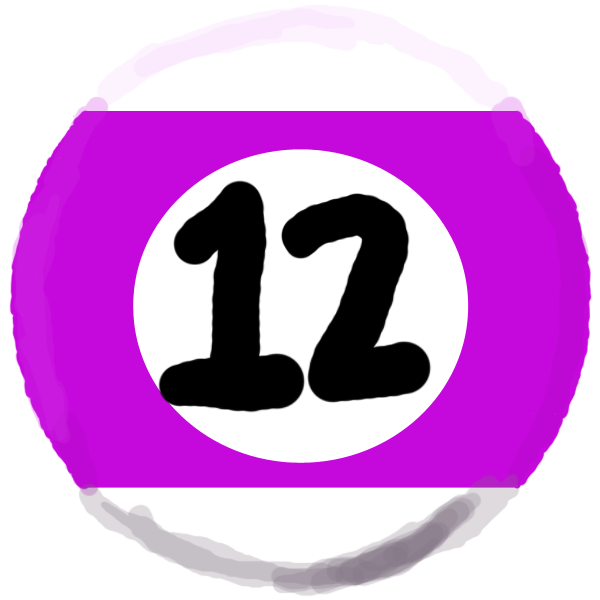
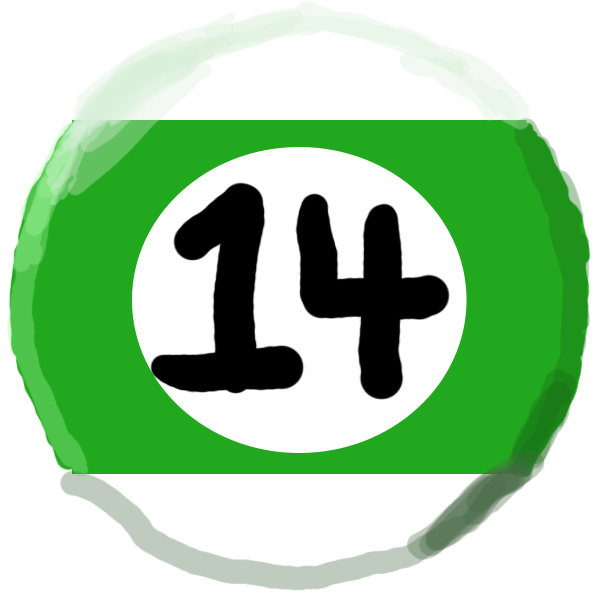
Fixed the 14 and 12 Ball textures, added an outline on hover, and added a waiting message.

diff --git a/src/CarpetBallComponent.java b/src/CarpetBallComponent.java
@@ -6,6 +6,7 @@ import java.awt.image.BufferedImage;
 import java.io.File;
 import java.io.IOException;
 import java.nio.Buffer;
+import java.util.Random;
 
 public class CarpetBallComponent extends JComponent implements BallListener {
 	private GameState state;
@@ -52,16 +53,23 @@ public class CarpetBallComponent extends JComponent implements BallListener {
             drawBall(g2, ball);
         }
         drawBall(g2, state.getCueBall());
-        if (state.isMyTurn() && !state.isSettingUp()){
+        if (!state.isInGame()){
             g.setColor(Color.RED);
-            g.drawString("YOUR", 95, (barTwo - (int)table.getBarDistance()) / 2 + (int)table.getBarDistance());
-            g.drawString("TURN", 175, (barTwo - (int)table.getBarDistance()) / 2 + (int)table.getBarDistance());
+            g.drawString("WAITING FOR PLAYER 2", 85, (barTwo - (int)table.getBarDistance()) / 2 + (int)table.getBarDistance() - 20);
         }
-        if (state.isSettingUp()){
-            g.setColor(Color.RED);
-            g.drawString("SET", 95, (barTwo - (int)table.getBarDistance()) / 2 + (int)table.getBarDistance());
-            g.drawString("UP", 175, (barTwo - (int)table.getBarDistance()) / 2 + (int)table.getBarDistance());
+        else {
+            if (state.isMyTurn() && !state.isSettingUp()) {
+                g.setColor(Color.RED);
+                g.drawString("YOUR", 95, (barTwo - (int) table.getBarDistance()) / 2 + (int) table.getBarDistance());
+                g.drawString("TURN", 175, (barTwo - (int) table.getBarDistance()) / 2 + (int) table.getBarDistance());
+            }
+            if (state.isSettingUp()) {
+                g.setColor(Color.RED);
+                g.drawString("SET", 95, (barTwo - (int) table.getBarDistance()) / 2 + (int) table.getBarDistance());
+                g.drawString("UP", 175, (barTwo - (int) table.getBarDistance()) / 2 + (int) table.getBarDistance());
+            }
         }
+
     }
     private BufferedImage getBufferedImage(File input){
         try {
@@ -75,6 +83,11 @@ public class CarpetBallComponent extends JComponent implements BallListener {
     private void drawBall(Graphics g, Ball b){
         Point2D loc = b.getLocation();
         int size = Ball.BALL_RADIUS;
+        if (b.isHovered()){
+            g.setColor(Color.WHITE);
+            g.fillOval((int)loc.getX() - size - 5, (int)loc.getY() - size - 5, (size + 5) * 2, (size + 5) * 2);
+        }
+
         g.drawImage(balls[b.getNumber()], (int) loc.getX() - size, (int) loc.getY() - size, size * 2, size * 2, null);
     }
 
